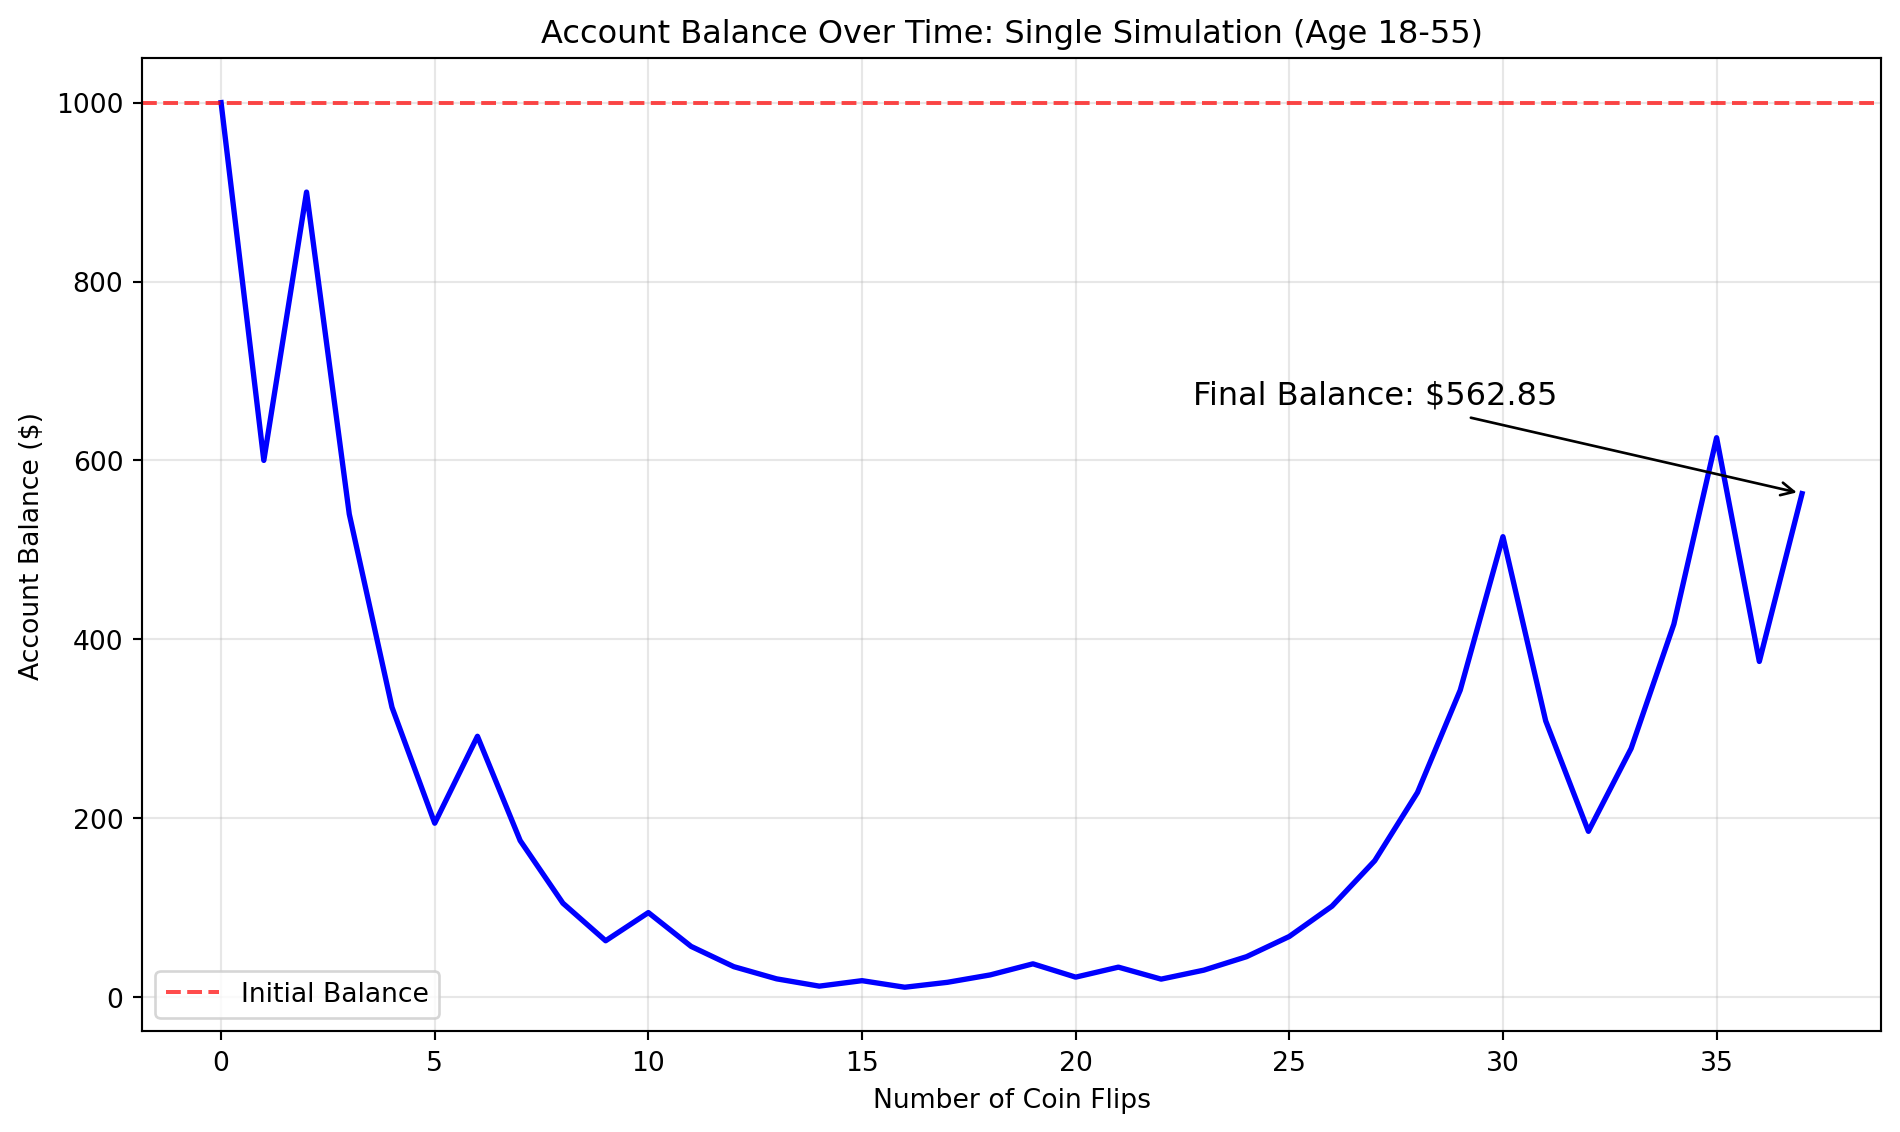
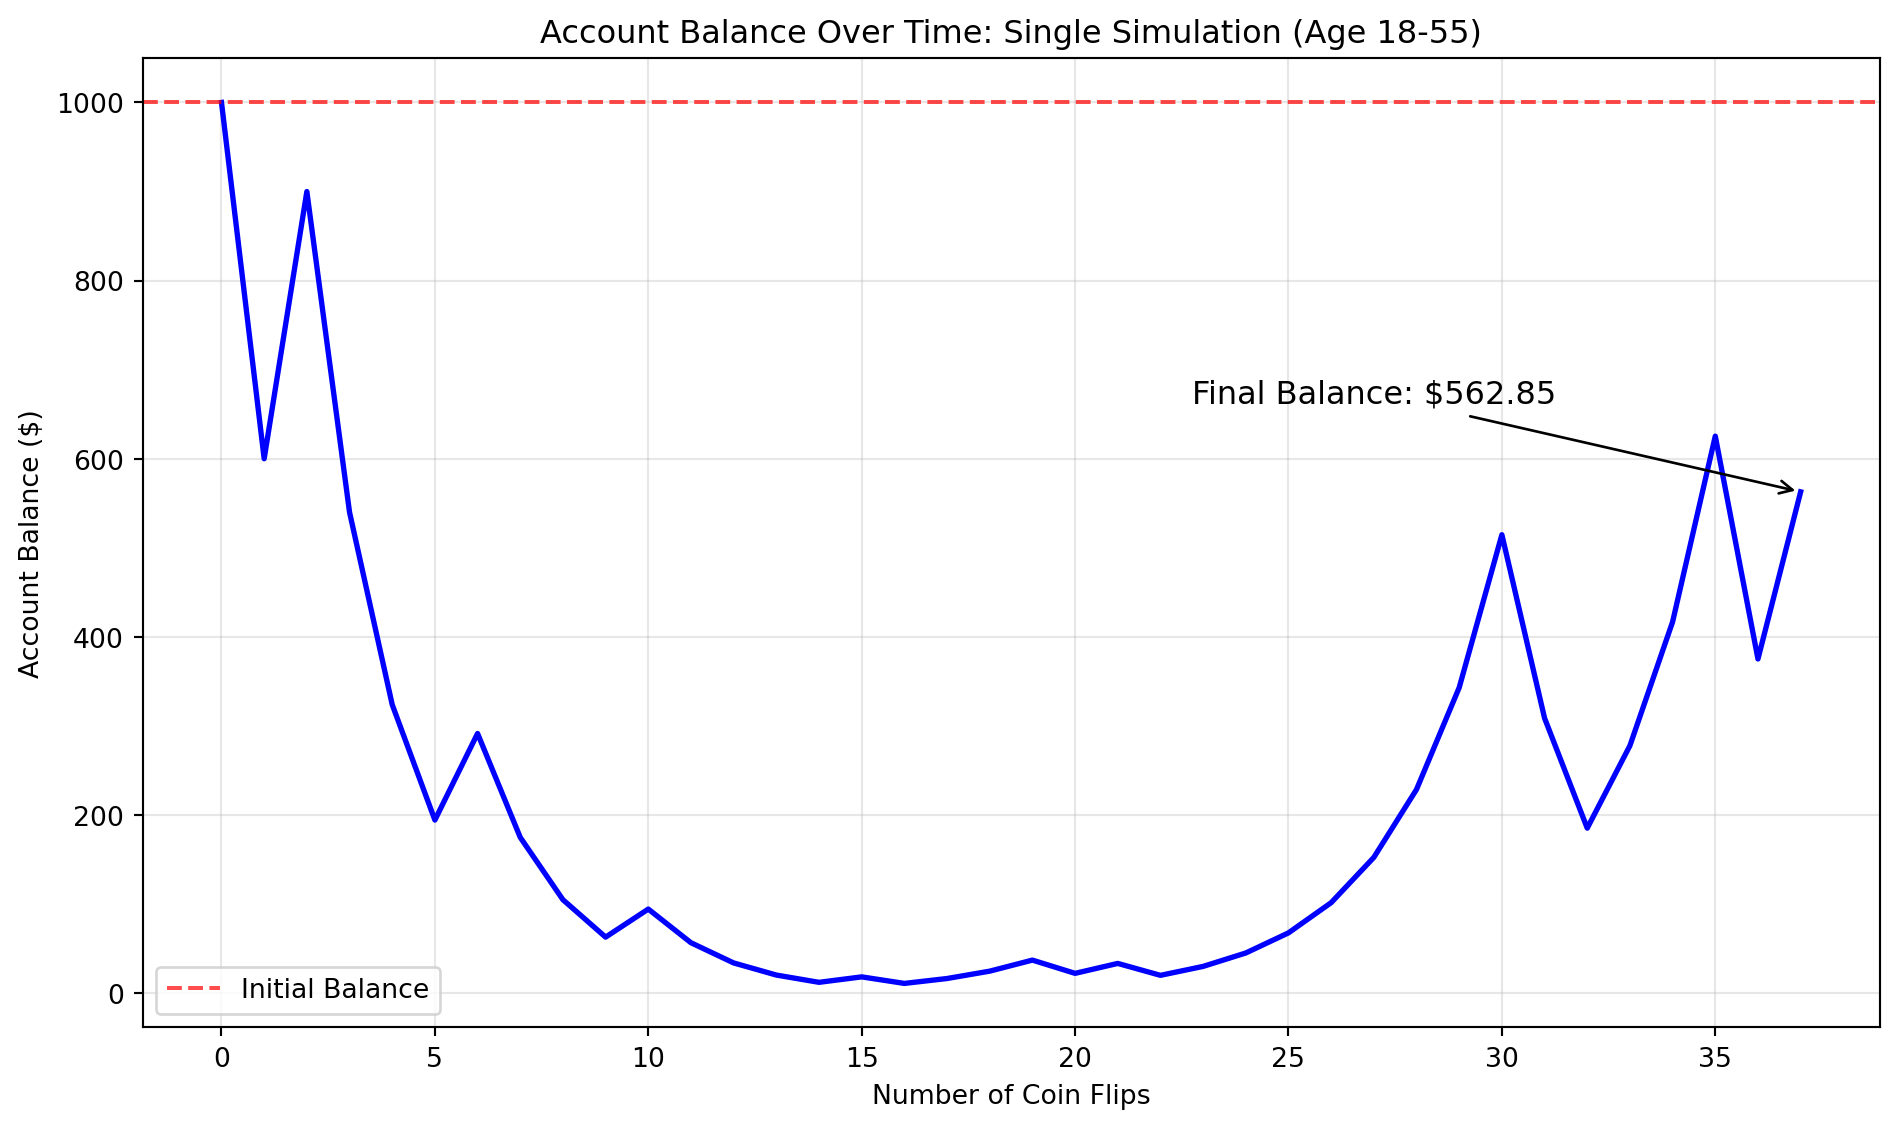
Updated simulation analysis

diff --git a/simulationChallenge.html b/simulationChallenge.html
@@ -109,7 +109,7 @@ pre > code.sourceCode > span > a:first-child::before { text-decoration: underlin
 <p>This Quarto document contains my full simulation challenge analysis in Python.</p>
 <section id="question-1-expected-value" class="level1">
 <h1>Question 1: Expected Value</h1>
-<div id="52cc9fa6" class="cell" data-execution_count="1">
+<div id="6fb059a8" class="cell" data-execution_count="1">
 <div class="code-copy-outer-scaffold"><div class="sourceCode cell-code" id="cb1"><pre class="sourceCode python code-with-copy"><code class="sourceCode python"><span id="cb1-1"><a href="#cb1-1" aria-hidden="true" tabindex="-1"></a><span class="co"># Initial balance</span></span>
 <span id="cb1-2"><a href="#cb1-2" aria-hidden="true" tabindex="-1"></a>initial_balance <span class="op">=</span> <span class="dv">1000</span></span>
 <span id="cb1-3"><a href="#cb1-3" aria-hidden="true" tabindex="-1"></a></span>
@@ -143,7 +143,7 @@ Expected return percentage: 5.00%</code></pre>
 </section>
 <section id="question-3-single-simulation" class="level1">
 <h1>Question 3: Single Simulation</h1>
-<div id="9b873d62" class="cell" data-execution_count="2">
+<div id="98094e35" class="cell" data-execution_count="2">
 <div class="code-copy-outer-scaffold"><div class="sourceCode cell-code" id="cb3"><pre class="sourceCode python code-with-copy"><code class="sourceCode python"><span id="cb3-1"><a href="#cb3-1" aria-hidden="true" tabindex="-1"></a><span class="im">import</span> numpy <span class="im">as</span> np</span>
 <span id="cb3-2"><a href="#cb3-2" aria-hidden="true" tabindex="-1"></a><span class="im">import</span> matplotlib.pyplot <span class="im">as</span> plt</span>
 <span id="cb3-3"><a href="#cb3-3" aria-hidden="true" tabindex="-1"></a></span>
@@ -198,7 +198,7 @@ Expected return percentage: 5.00%</code></pre>
 <div class="cell-output cell-output-display">
 <div>
 <figure class="figure">
-<p><img src="simulationChallenge_files/figure-html/cell-3-output-1.png" width="950" height="566" class="figure-img"></p>
+<p><img src="simulationChallenge_files/figure-html/cell-3-output-1.png" width="949" height="564" class="figure-img"></p>
 </figure>
 </div>
 </div>
@@ -213,7 +213,7 @@ Total return percentage: -43.71%</code></pre>
 </section>
 <section id="question-4-multiple-simulations" class="level1">
 <h1>Question 4: Multiple Simulations</h1>
-<div id="4279186b" class="cell" data-execution_count="3">
+<div id="01d5ed49" class="cell" data-execution_count="3">
 <div class="code-copy-outer-scaffold"><div class="sourceCode cell-code" id="cb5"><pre class="sourceCode python code-with-copy"><code class="sourceCode python"><span id="cb5-1"><a href="#cb5-1" aria-hidden="true" tabindex="-1"></a><span class="im">import</span> numpy <span class="im">as</span> np</span>
 <span id="cb5-2"><a href="#cb5-2" aria-hidden="true" tabindex="-1"></a><span class="im">import</span> matplotlib.pyplot <span class="im">as</span> plt</span>
 <span id="cb5-3"><a href="#cb5-3" aria-hidden="true" tabindex="-1"></a></span>
@@ -281,7 +281,7 @@ Total return percentage: -43.71%</code></pre>
 <div class="cell-output cell-output-display">
 <div>
 <figure class="figure">
-<p><img src="simulationChallenge_files/figure-html/cell-4-output-1.png" width="946" height="566" class="figure-img"></p>
+<p><img src="simulationChallenge_files/figure-html/cell-4-output-1.png" width="946" height="564" class="figure-img"></p>
 </figure>
 </div>
 </div>
@@ -299,7 +299,7 @@ Standard deviation: $15086.30</code></pre>
 </section>
 <section id="question-5-probability-above-1000" class="level1">
 <h1>Question 5: Probability Above $1000</h1>
-<div id="25c94716" class="cell" data-execution_count="4">
+<div id="ad9a1f9e" class="cell" data-execution_count="4">
 <div class="code-copy-outer-scaffold"><div class="sourceCode cell-code" id="cb7"><pre class="sourceCode python code-with-copy"><code class="sourceCode python"><span id="cb7-1"><a href="#cb7-1" aria-hidden="true" tabindex="-1"></a><span class="co"># Calculate probability of ending above $1000 from the 100 simulations</span></span>
 <span id="cb7-2"><a href="#cb7-2" aria-hidden="true" tabindex="-1"></a>prob_above_1000 <span class="op">=</span> np.mean(final_balances <span class="op">&gt;</span> <span class="dv">1000</span>)</span>
 <span id="cb7-3"><a href="#cb7-3" aria-hidden="true" tabindex="-1"></a></span>
@@ -314,7 +314,7 @@ This means only 24 out of 100 simulations ended above the initial balance.</code
 </section>
 <section id="question-6-strategy-comparison" class="level1">
 <h1>Question 6: Strategy Comparison</h1>
-<div id="a288a049" class="cell" data-execution_count="5">
+<div id="901b5637" class="cell" data-execution_count="5">
 <div class="code-copy-outer-scaffold"><div class="sourceCode cell-code" id="cb9"><pre class="sourceCode python code-with-copy"><code class="sourceCode python"><span id="cb9-1"><a href="#cb9-1" aria-hidden="true" tabindex="-1"></a><span class="im">import</span> numpy <span class="im">as</span> np</span>
 <span id="cb9-2"><a href="#cb9-2" aria-hidden="true" tabindex="-1"></a><span class="im">import</span> matplotlib.pyplot <span class="im">as</span> plt</span>
 <span id="cb9-3"><a href="#cb9-3" aria-hidden="true" tabindex="-1"></a></span>
@@ -392,7 +392,7 @@ This means only 24 out of 100 simulations ended above the initial balance.</code
 <div class="cell-output cell-output-display">
 <div>
 <figure class="figure">
-<p><img src="simulationChallenge_files/figure-html/cell-6-output-1.png" width="1142" height="566" class="figure-img"></p>
+<p><img src="simulationChallenge_files/figure-html/cell-6-output-1.png" width="1141" height="564" class="figure-img"></p>
 </figure>
 </div>
 </div>
